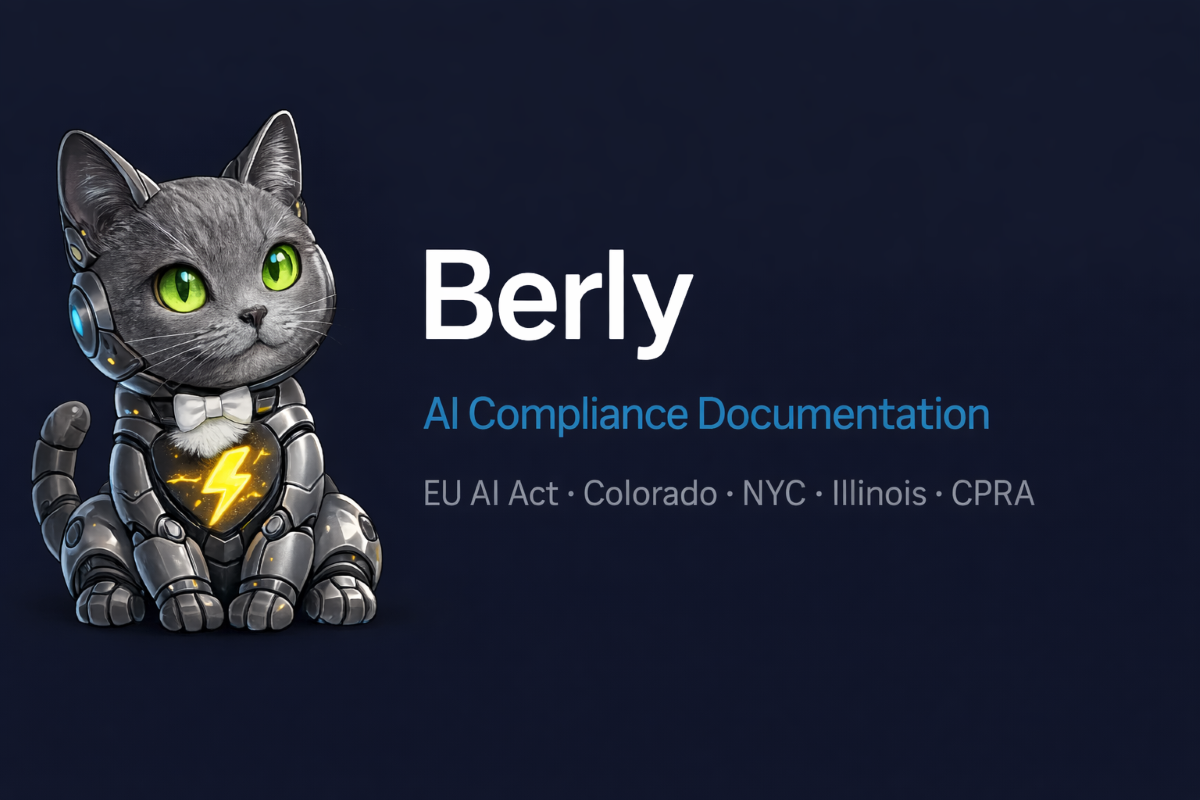
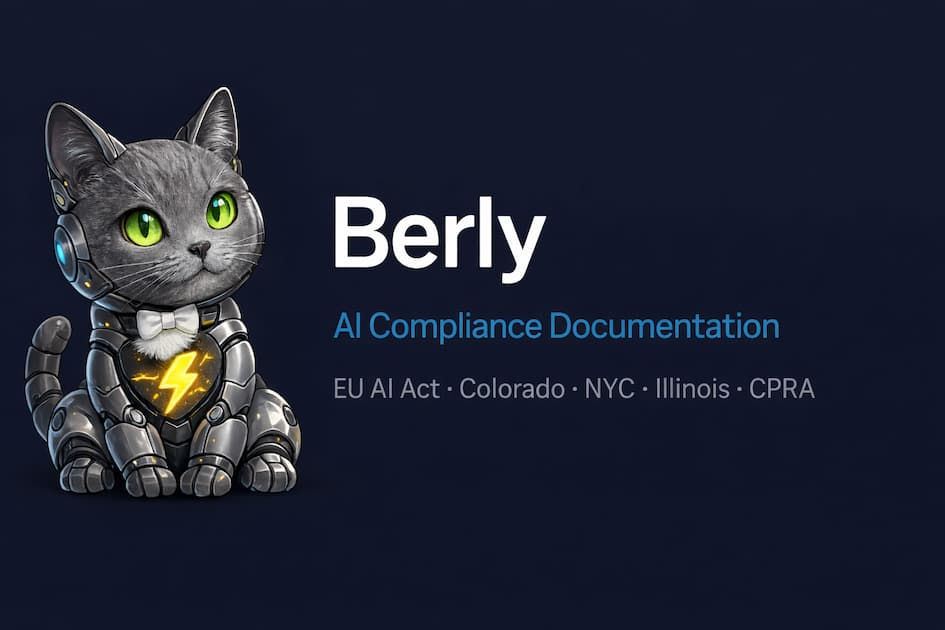
update og-image tag sizing to 945 x 630

diff --git a/index.html b/index.html
@@ -11,17 +11,17 @@
   <!-- Open Graph -->
   <meta property="og:type" content="website">
   <meta property="og:url" content="https://berly.app">
-  <meta property="og:title" content="Berly — AI Compliance Documentation for Consultants">
+  <meta property="og:title" content="Berly - AI Compliance Documentation for Consultants">
   <meta property="og:description" content="Audit-ready compliance documentation across 5 AI regulatory frameworks. Field-level guidance, evidence verification, professional PDF export. $499 one-time.">
   <meta property="og:image" content="https://berly.app/assets/og-image.png">
-  <meta property="og:image:width" content="1200">
-  <meta property="og:image:height" content="800">
+  <meta property="og:image:width" content="945">
+  <meta property="og:image:height" content="630">
   <meta property="og:site_name" content="Berly">
   <meta property="og:locale" content="en_US">
 
   <!-- Twitter/X -->
   <meta name="twitter:card" content="summary_large_image">
-  <meta name="twitter:title" content="Berly — AI Compliance Documentation for Consultants">
+  <meta name="twitter:title" content="Berly - AI Compliance Documentation for Consultants">
   <meta name="twitter:description" content="Audit-ready compliance documentation across 5 AI regulatory frameworks. Field-level guidance, evidence verification, professional PDF export. $499 one-time.">
   <meta name="twitter:image" content="https://berly.app/assets/og-image.png">
   <link rel="preconnect" href="https://fonts.googleapis.com">
